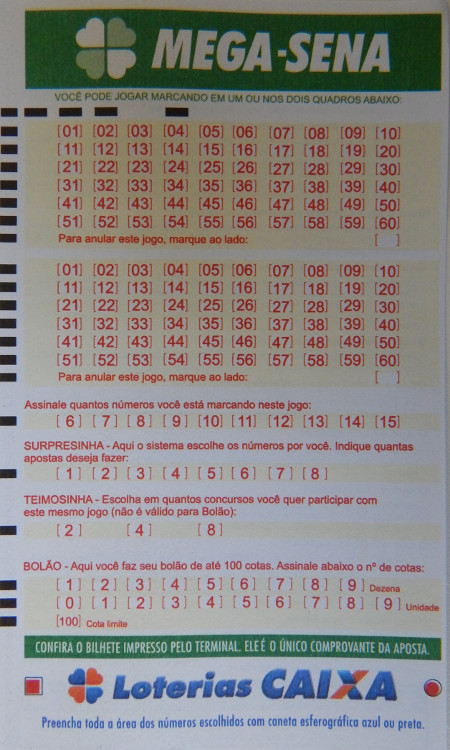
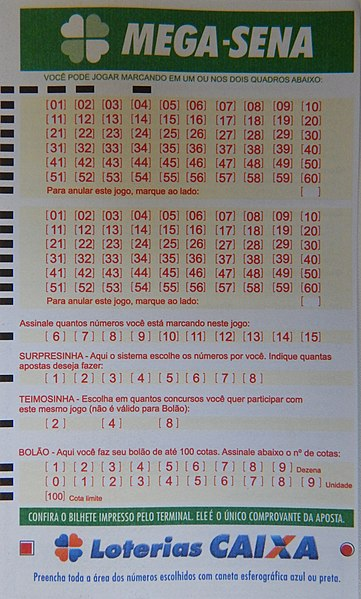
2019-02-25 update

diff --git a/README.md b/README.md
@@ -3,9 +3,13 @@ Mega-Sena
 
 The Mega-Sena is the highest paying lottery in South America and all drawing results are publicly available on the [official website](http://loterias.caixa.gov.br/wps/portal/loterias/landing/megasena/).
 
-<center>
-<img alt="Ballot" src="ballot.jpg">
-</center>
+<p align="center">
+    <img alt="Ballot" src="ballot.jpg">
+    <br />
+    <a href="https://commons.wikimedia.org/wiki/File:Volante_da_Megasena.jpg" target="_blank">
+        Mega-Sena ballot
+    </a>
+</p>
 
 
 ## Goals
@@ -18,9 +22,13 @@ The goals of this project are:
 
 * Implement an interactive plot in a Jupyter notebook`(3 - Interactive Plot.ipynb)`.
 
-<center>
-<img alt="Interactive Plot" src="interactive_plot.gif">
-</center>
+<p align="center">
+    <img alt="Interactive Plot" src="interactive_plot.gif">
+    <br />
+    <a href="https://github.com/victorjnpires/Mega-Sena/blob/master/3%20-%20Interactive%20Plot.ipynb" target="_blank">
+        Interactive Plot
+    </a>
+</p>
 
 
 ## Data Sources
